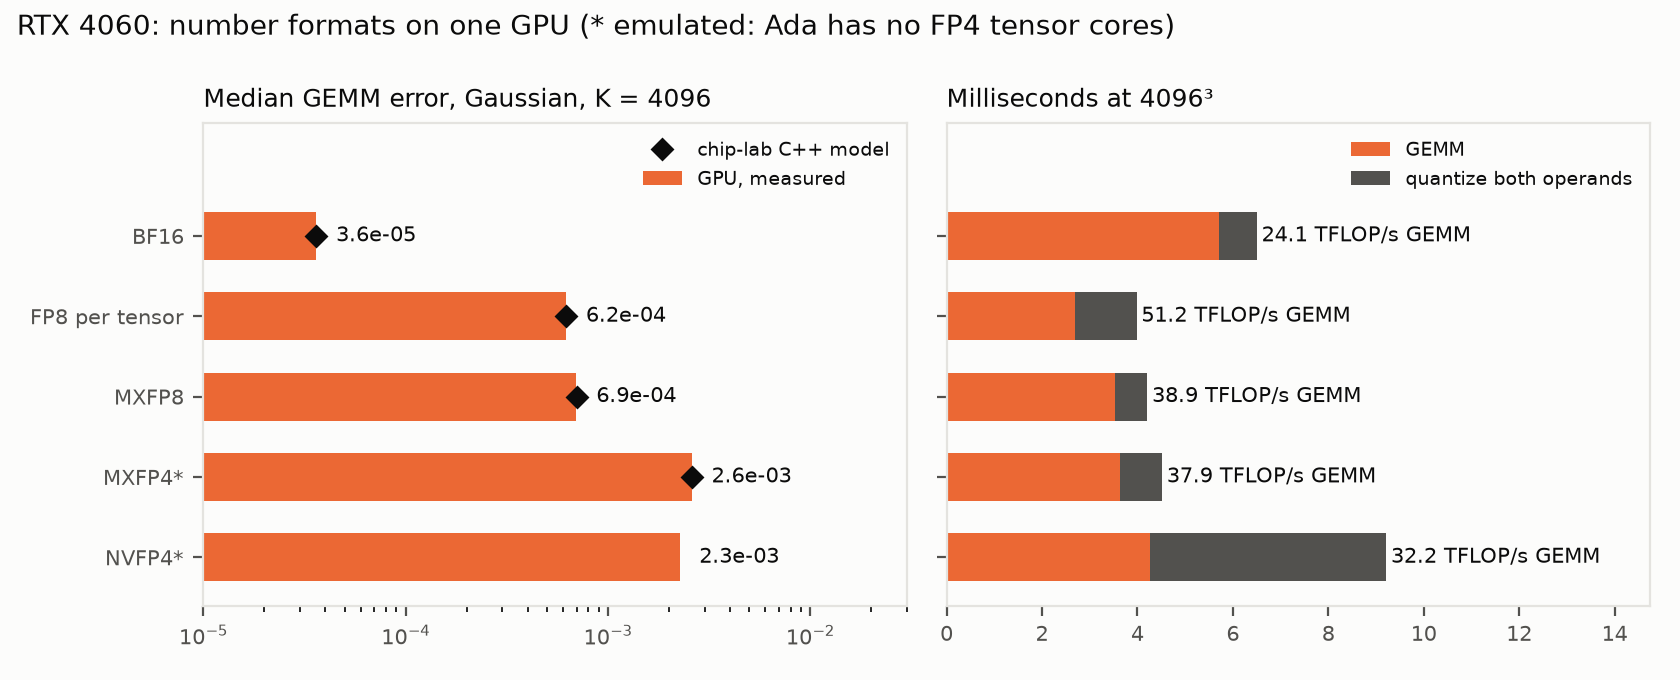
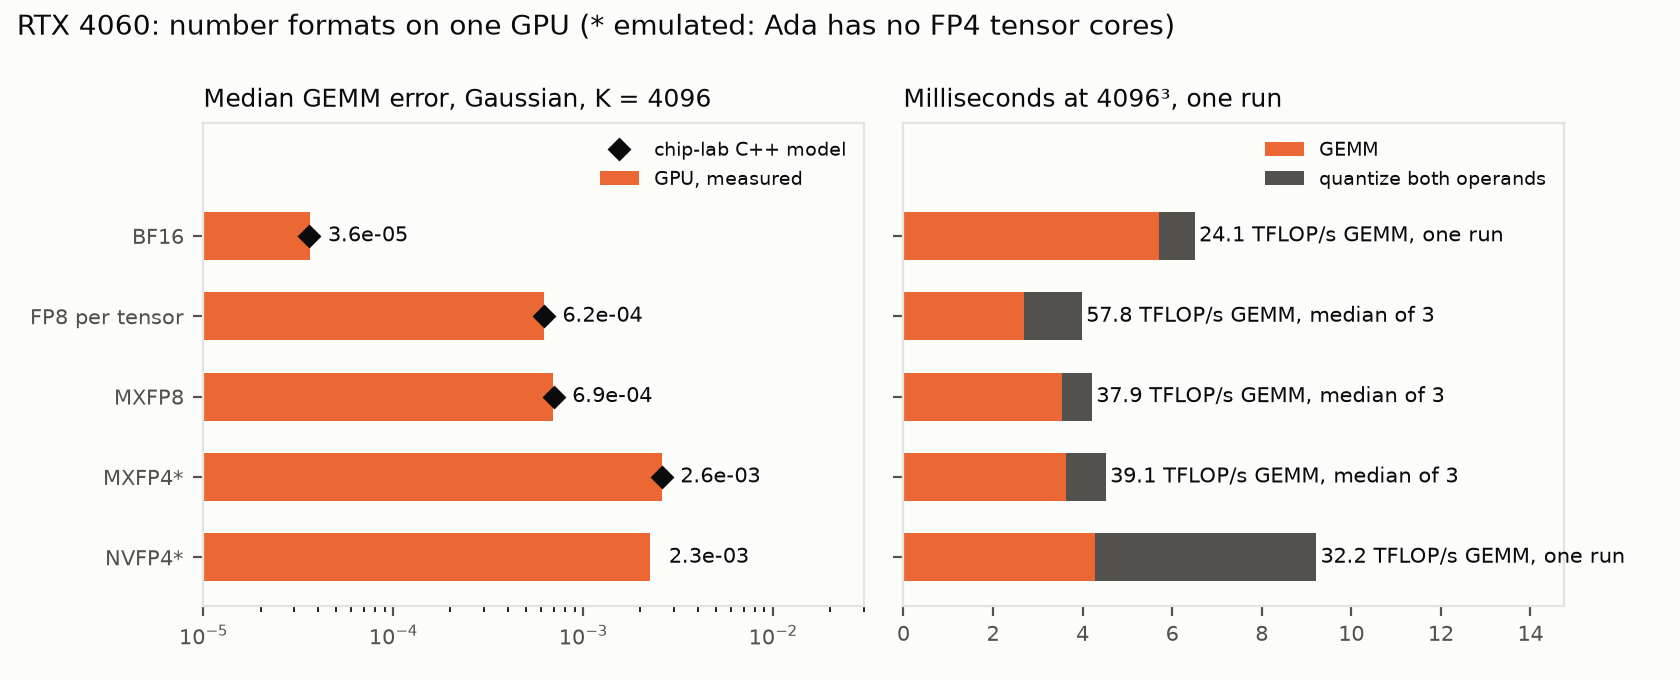
Match chip-lab ratios and FP8 naming in MX notes
chip-lab's re-route moved its throughput ratios; the figure now labels median-of-three TFLOP/s.

diff --git a/scripts/journal_mx.py b/scripts/journal_mx.py
@@ -7,7 +7,8 @@ vectors (GPU against chip-lab's bit-exact C++ model) and time per 4096³ GEMM
 split into quantizing and multiplying.
 
 Usage: uv run scripts/journal_mx.py <out.png> [light|dark]
-Reads docs/results/numerics-rtx4060.csv and docs/results/chiplab-gemm-error.csv.
+Reads docs/results/numerics-rtx4060.csv, docs/results/chiplab-gemm-error.csv and
+docs/results/rtx4060.csv (median-of-three GEMM TFLOP/s for the labels).
 """
 
 import csv
@@ -19,13 +20,13 @@ matplotlib.use("Agg")
 import matplotlib.pyplot as plt
 from plotstyle import THEMES
 
-# (numerics format, numerics impl, chip-lab format or None, label)
+# (numerics format, numerics impl, chip-lab format or None, label, rtx4060.csv kernel or None)
 FORMATS = [
-    ("bf16", "cuBLAS", "bf16", "BF16"),
-    ("e4m3_tensor", "fp8 (step 8)", "e4m3_tensor", "FP8 per tensor"),
-    ("mxfp8", "mxfp8 (step 9)", "mxfp8", "MXFP8"),
-    ("mxfp4", "mxfp8 kernel on E2M1 values", "mxfp4", "MXFP4*"),
-    ("nvfp4", "FP16 cuBLAS on decoded values", None, "NVFP4*"),
+    ("bf16", "cuBLAS", "bf16", "BF16", None),
+    ("e4m3_tensor", "fp8 (step 8)", "e4m3_tensor", "FP8 per tensor", "fp8"),
+    ("mxfp8", "mxfp8 (step 9)", "mxfp8", "MXFP8", "mxfp8"),
+    ("mxfp4", "mxfp8 kernel on E2M1 values", "mxfp4", "MXFP4*", "mxfp4"),
+    ("nvfp4", "FP16 cuBLAS on decoded values", None, "NVFP4*", None),
 ]
 
 
@@ -41,6 +42,11 @@ def main(dst, theme="light"):
     cost = {(r[0], r[1]): r for r in rows if len(r) == 6 and r[0] != "distribution"
             and not r[1].isdigit()}
     chip = {(r[0], r[1]): float(r[2]) for r in read("docs/results/chiplab-gemm-error.csv")[1:]}
+    runs = {}
+    for r in read("docs/results/rtx4060.csv"):
+        if len(r) == 7 and r[1] == "4096":
+            runs.setdefault(r[0], []).append(float(r[3]) / 1000)
+    median = {k: sorted(v)[len(v) // 2] for k, v in runs.items() if len(v) == 3}
 
     c = THEMES[theme]
     labels = [f[3] for f in FORMATS]
@@ -72,11 +78,15 @@ def main(dst, theme="light"):
     ax.barh(y, g, color=c["tc"], height=0.6, label="GEMM")
     ax.barh(y, q, left=g, color=c["muted"], height=0.6, label="quantize both operands")
     for i in y:
-        tflops = float(cost[(FORMATS[i][0], FORMATS[i][1])][4])
-        ax.text(g[i] + q[i] + 0.1, i, f"{tflops:.1f} TFLOP/s GEMM", va="center",
+        kernel = FORMATS[i][4]
+        if kernel:
+            text = f"{median[kernel]:.1f} TFLOP/s GEMM, median of 3"
+        else:
+            text = f"{float(cost[(FORMATS[i][0], FORMATS[i][1])][4]):.1f} TFLOP/s GEMM, one run"
+        ax.text(g[i] + q[i] + 0.1, i, text, va="center",
                 fontsize=7.5, color=c["ink"])
     ax.set_xlim(0, max(a + b for a, b in zip(g, q)) * 1.6)
-    ax.set_title("Milliseconds at 4096³", fontsize=9, color=c["ink"], loc="left")
+    ax.set_title("Milliseconds at 4096³, one run", fontsize=9, color=c["ink"], loc="left")
     leg = ax.legend(frameon=False, fontsize=7, loc="upper right")
     for t in leg.get_texts():
         t.set_color(c["ink"])

diff --git a/docs/gpu-vs-tile.md b/docs/gpu-vs-tile.md
@@ -9,17 +9,17 @@ The [openroad-chip-lab](https://github.com/NicholasUnruh/openroad-chip-lab) nume
 | Format | GPU TFLOP/s | GPU ratio | chip-lab unit | chip-lab GMAC/s/mm² ratio |
 |---|---:|---:|---|---:|
 | 16-bit | 30.2 (cuBLAS FP16) | 1.00 | `dot8_bf16` | 1.00 |
-| FP8 E4M3, per tensor | 57.8 (step 8) | 1.91 | `dot8_e4m3` | 1.64 |
-| MXFP8 | 37.9 (step 9) | 1.25 | `dot32_mxfp8` | 2.17 |
-| MXFP4 | 39.1 (emulated) | 1.29 | `dot32_mxfp4` | 5.86 |
+| FP8 E4M3, per tensor | 57.8 (step 8) | 1.91 | `dot8_e4m3` | 1.53 |
+| MXFP8 | 37.9 (step 9) | 1.25 | `dot32_mxfp8` | 1.90 |
+| MXFP4 | 39.1 (emulated) | 1.29 | `dot32_mxfp4` | 5.70 |
 
 The GPU baseline is cuBLAS FP16 with FP32 accumulation, the reference column of the `cpasync` rows. Ada's whitepaper gives BF16 and FP16 the same tensor rate. MXFP4 runs the MXFP8 kernel, so its 3% lead is run-to-run spread. chip-lab source: its `docs/numerics-results.md`.
 
 ## What the comparison shows
 
-1. **Per-tensor FP8 pays off on both.** cuBLASLt FP8 runs at about 2× cuBLAS FP16 (61 against 30 TFLOP/s). chip-lab's FP8 and BF16 dot8 units both do 8 MACs per clock, so its 1.64× comes from less area per MAC (117 against 165 µm²) and a higher fmax.
+1. **Per-tensor FP8 pays off on both.** cuBLASLt FP8 runs at about 2× cuBLAS FP16 (61 against 30 TFLOP/s). chip-lab's FP8 and BF16 dot8 units both do 8 MACs per clock, so its 1.53× comes from less area per MAC (117 against 166 µm²) and a higher fmax.
 2. **MX block scaling is cheap in silicon and expensive in software.** chip-lab's MXFP8 unit adds one exponent per 32 MACs. Ada has no block-scaled MMA, so every 32-deep partial sum is rescaled in FP32 registers, and the best format per mm² becomes slower than per-tensor FP8. Blackwell's block-scaled MMA (`.block_scale` in PTX) is the hardware answer; it is not tested here.
-3. **FP4 needs FP4 hardware.** chip-lab predicts 5.86× for MXFP4. On Ada, E2M1 values still run on FP8 tensor cores, so FP4 costs the MXFP8 rate and saves only storage. Its error matches chip-lab's model: 2.60e-3 median at K = 4096 (Gaussian), against 2.6e-3. In chip-lab's training study, MXFP4 fails the 1% loss gate.
+3. **FP4 needs FP4 hardware.** chip-lab predicts 5.70× for MXFP4. On Ada, E2M1 values still run on FP8 tensor cores, so FP4 costs the MXFP8 rate and saves only storage. Its error matches chip-lab's model: 2.60e-3 median at K = 4096 (Gaussian), against 2.6e-3. In chip-lab's training study, MXFP4 fails the 1% loss gate.
 4. **Accumulators are narrower than the study assumed.** chip-lab sweeps BF16 alignment frames from 24 to 40 bits and finds 24 enough. The GPU's FP8 adder keeps about 14 bits ([step 8](steps/8-fp8.md)); FP32 promotion every 64-deep K tile makes it accurate. A custom FP8 unit can do the same.
 
 ## Accuracy is the same on both

diff --git a/docs/journal/2026-11-12-mx.md b/docs/journal/2026-11-12-mx.md
@@ -2,7 +2,7 @@
 
 ## Question
 
-chip-lab's numerics study ranks a 32-term MXFP8 dot-product unit as the best training datapath per mm² (2.17× BF16, predictive ASAP7). What do MXFP8, MXFP4 and NVFP4 cost on an Ada GPU, which has FP8 tensor cores but no block-scaled MMA? Do they keep the accuracy chip-lab's models predict?
+chip-lab's numerics study ranks a 32-term MXFP8 dot-product unit as the best training datapath per mm² (1.90× BF16, predictive ASAP7). What do MXFP8, MXFP4 and NVFP4 cost on an Ada GPU, which has FP8 tensor cores but no block-scaled MMA? Do they keep the accuracy chip-lab's models predict?
 
 ![Error matches chip-lab's models for every format; MX scaling and FP4 emulation cost throughput instead of saving it](img/mx.png)
 
